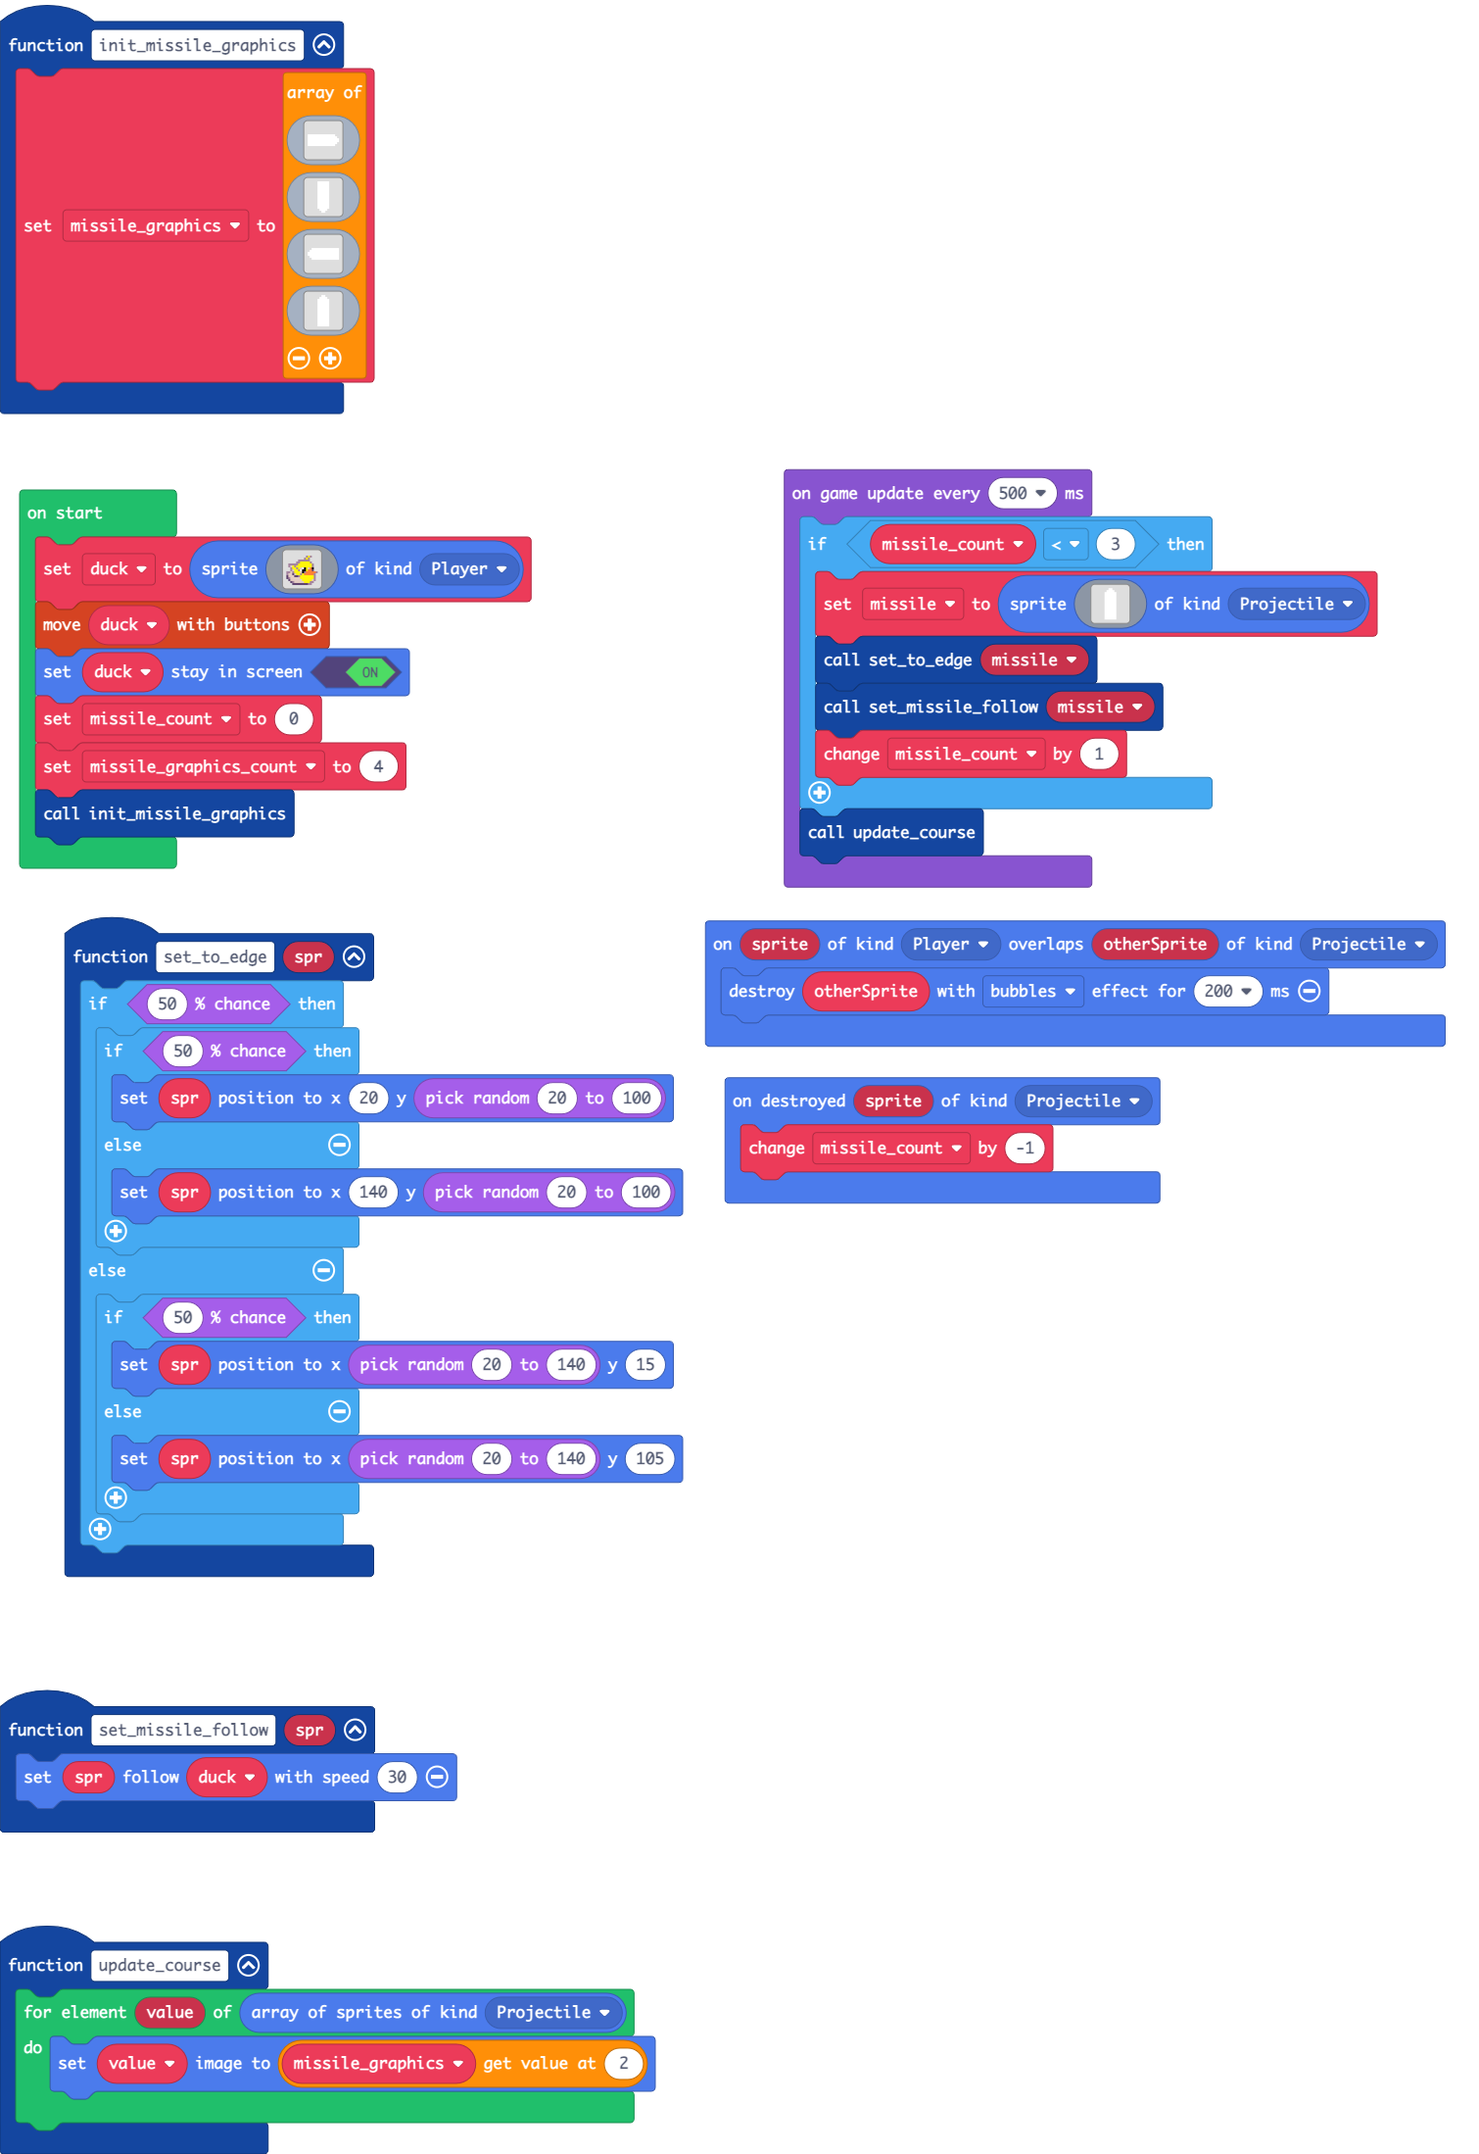
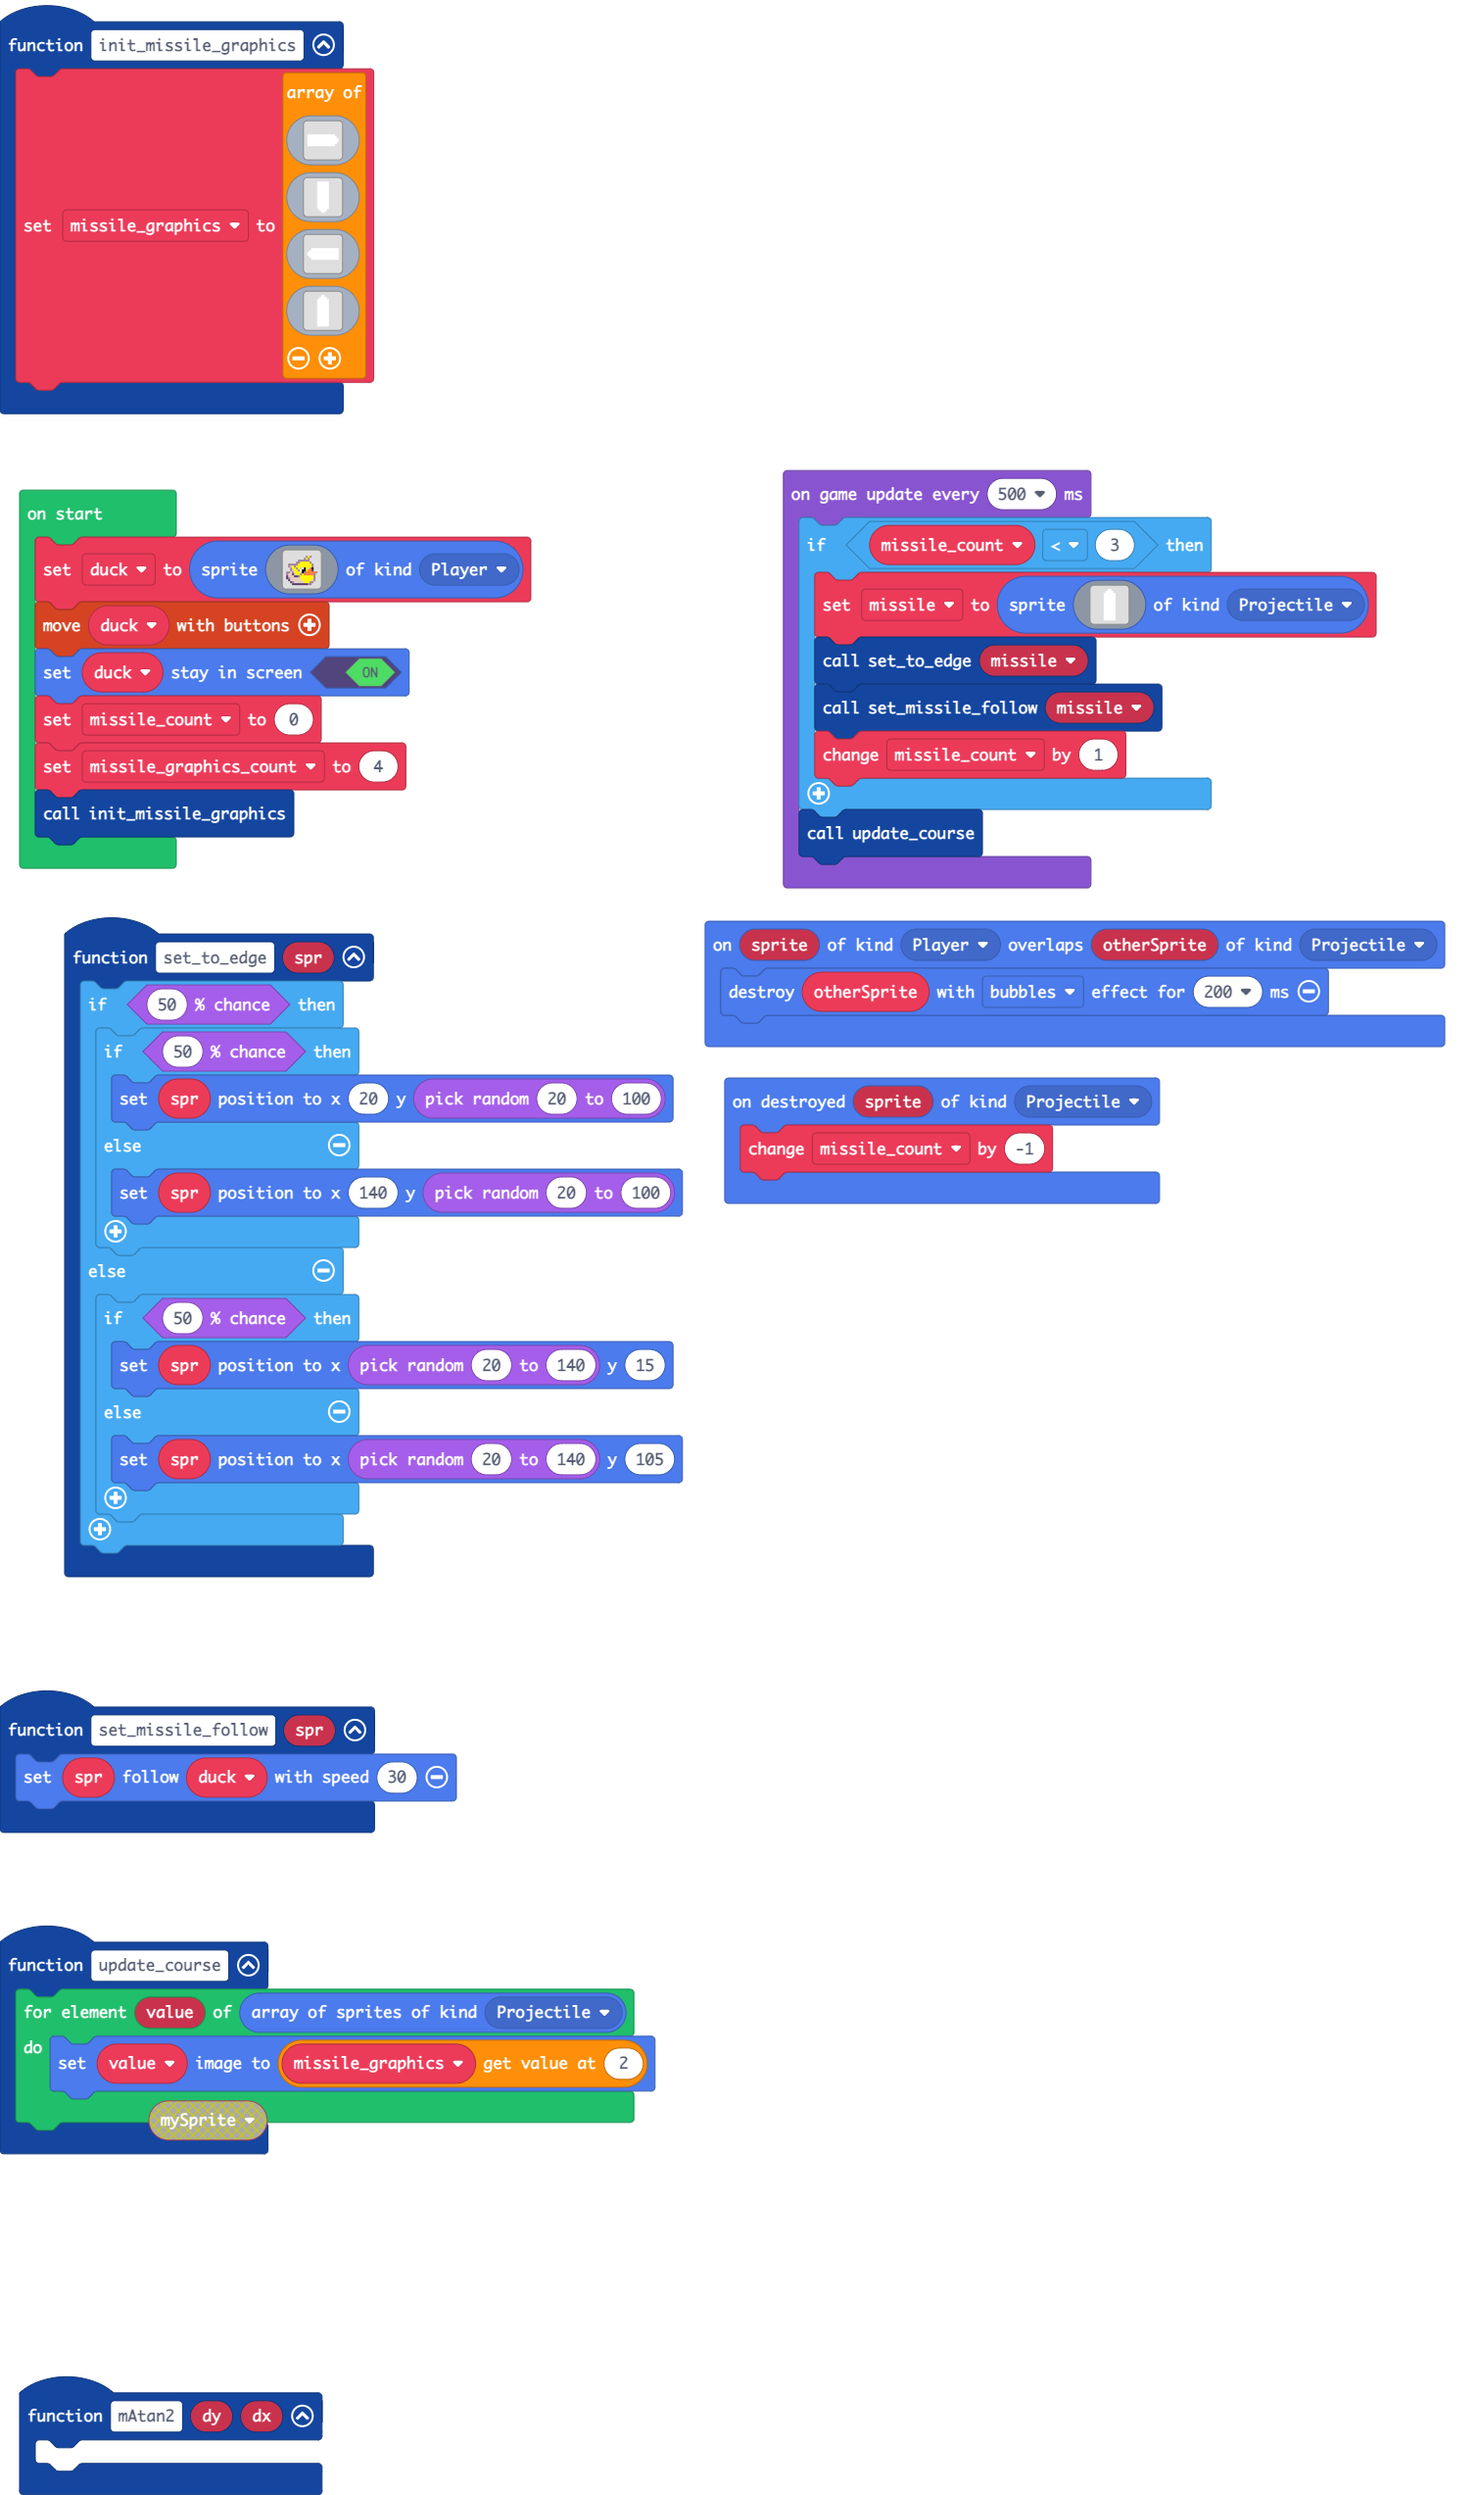
Update main.blocks, main.ts

diff --git a/main.ts b/main.ts
@@ -1,3 +1,6 @@
+function mAtan2 (dy: number, dx: number) {
+	
+}
 function set_missile_follow (spr: Sprite) {
     spr.follow(duck, 30)
 }
